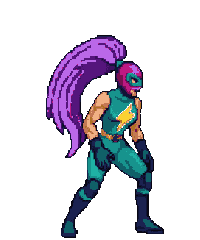
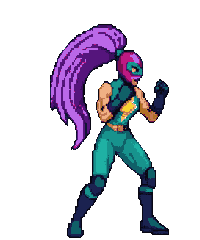
Idle: 24 frames con las palmadas 11-12 repetidas seguidas x3; el modelo nuevo deja de llamarse sprite de referencia

Changed region(s): [[0.21, 0.0875, 0.84, 0.9917]]

diff --git a/preview/nueva.html b/preview/nueva.html
@@ -3,7 +3,7 @@
 <head>
 <meta charset="utf-8">
 <meta name="viewport" content="width=device-width, initial-scale=1">
-<title>VOLTIA · modelo nuevo, sin reducir</title>
+<title>VOLTIA · modelo nuevo</title>
 <style>
   :root { --bg:#181624; --panel:#222033; --cyan:#96ffeb; }
   * { box-sizing: border-box; }
@@ -117,7 +117,7 @@
 (() => {
   // El archivo no se toca y el escenario no lo escala: 200 nativos, 1:1.
   // ?v= para que el navegador no sirva el PNG viejo de esta misma ruta.
-  window.STAGE_FIGHTER = '../voltia/nueva/idle/00.png?v=16';
+  window.STAGE_FIGHTER = '../voltia/nueva/idle/00.png?v=17';
   // Suelo en el centro del rombo dibujado (spec.floorY es 408, el borde trasero).
   window.STAGE_FLOOR_Y = 426;
   window.STAGE_FIGHTER_SCALE = 1;
@@ -202,7 +202,7 @@
     note.textContent = anim.note || '';
     for (const f of anim.frames) {
       const im = new Image();
-      im.src = '../voltia/' + anim.dir + '/' + f + '?v=16';
+      im.src = '../voltia/' + anim.dir + '/' + f + '?v=17';
       await im.decode();
       imgs.push(im);
     }
@@ -210,7 +210,7 @@
     draw();
   }
   try {
-    const guide = await (await fetch('../voltia/guide/style.json?v=16',
+    const guide = await (await fetch('../voltia/guide/style.json?v=17',
       { cache: 'no-store' })).json();
     window.__GUIDE = guide;
     const entries = Object.entries(guide.anims || {});

diff --git a/index.html b/index.html
@@ -23,15 +23,15 @@
 <body>
 <main>
   <h1>VOLTIA</h1>
-  <p>El personaje de la pelea y el modelo nuevo no comparten página. Las guías no animan nada: solo guardan cómo generar.</p>
+  <p>El personaje de la pelea y el modelo nuevo no comparten página. Las guías no animan nada: solo guardan cómo generar. El modelo nuevo ya es un juego de animaciones, no un solo sprite.</p>
   <nav>
     <a class="main" href="preview/index.html">
       <strong>Visor del personaje actual</strong>
       <span>El que ya está en la pelea. Animaciones, escenario y manual.</span>
     </a>
     <a href="preview/nueva.html">
-      <strong>Sprite de referencia · modelo nuevo</strong>
-      <span>Uno solo, de pie, a 1024 × 1024 sin reducir. Sobre el escenario.</span>
+      <strong>Modelo nuevo · animaciones</strong>
+      <span>Las animaciones a 200 px nativos, el escenario y las reglas de escala.</span>
     </a>
     <a href="preview/guia.html">
       <strong>Guía · modelo nuevo</strong>
